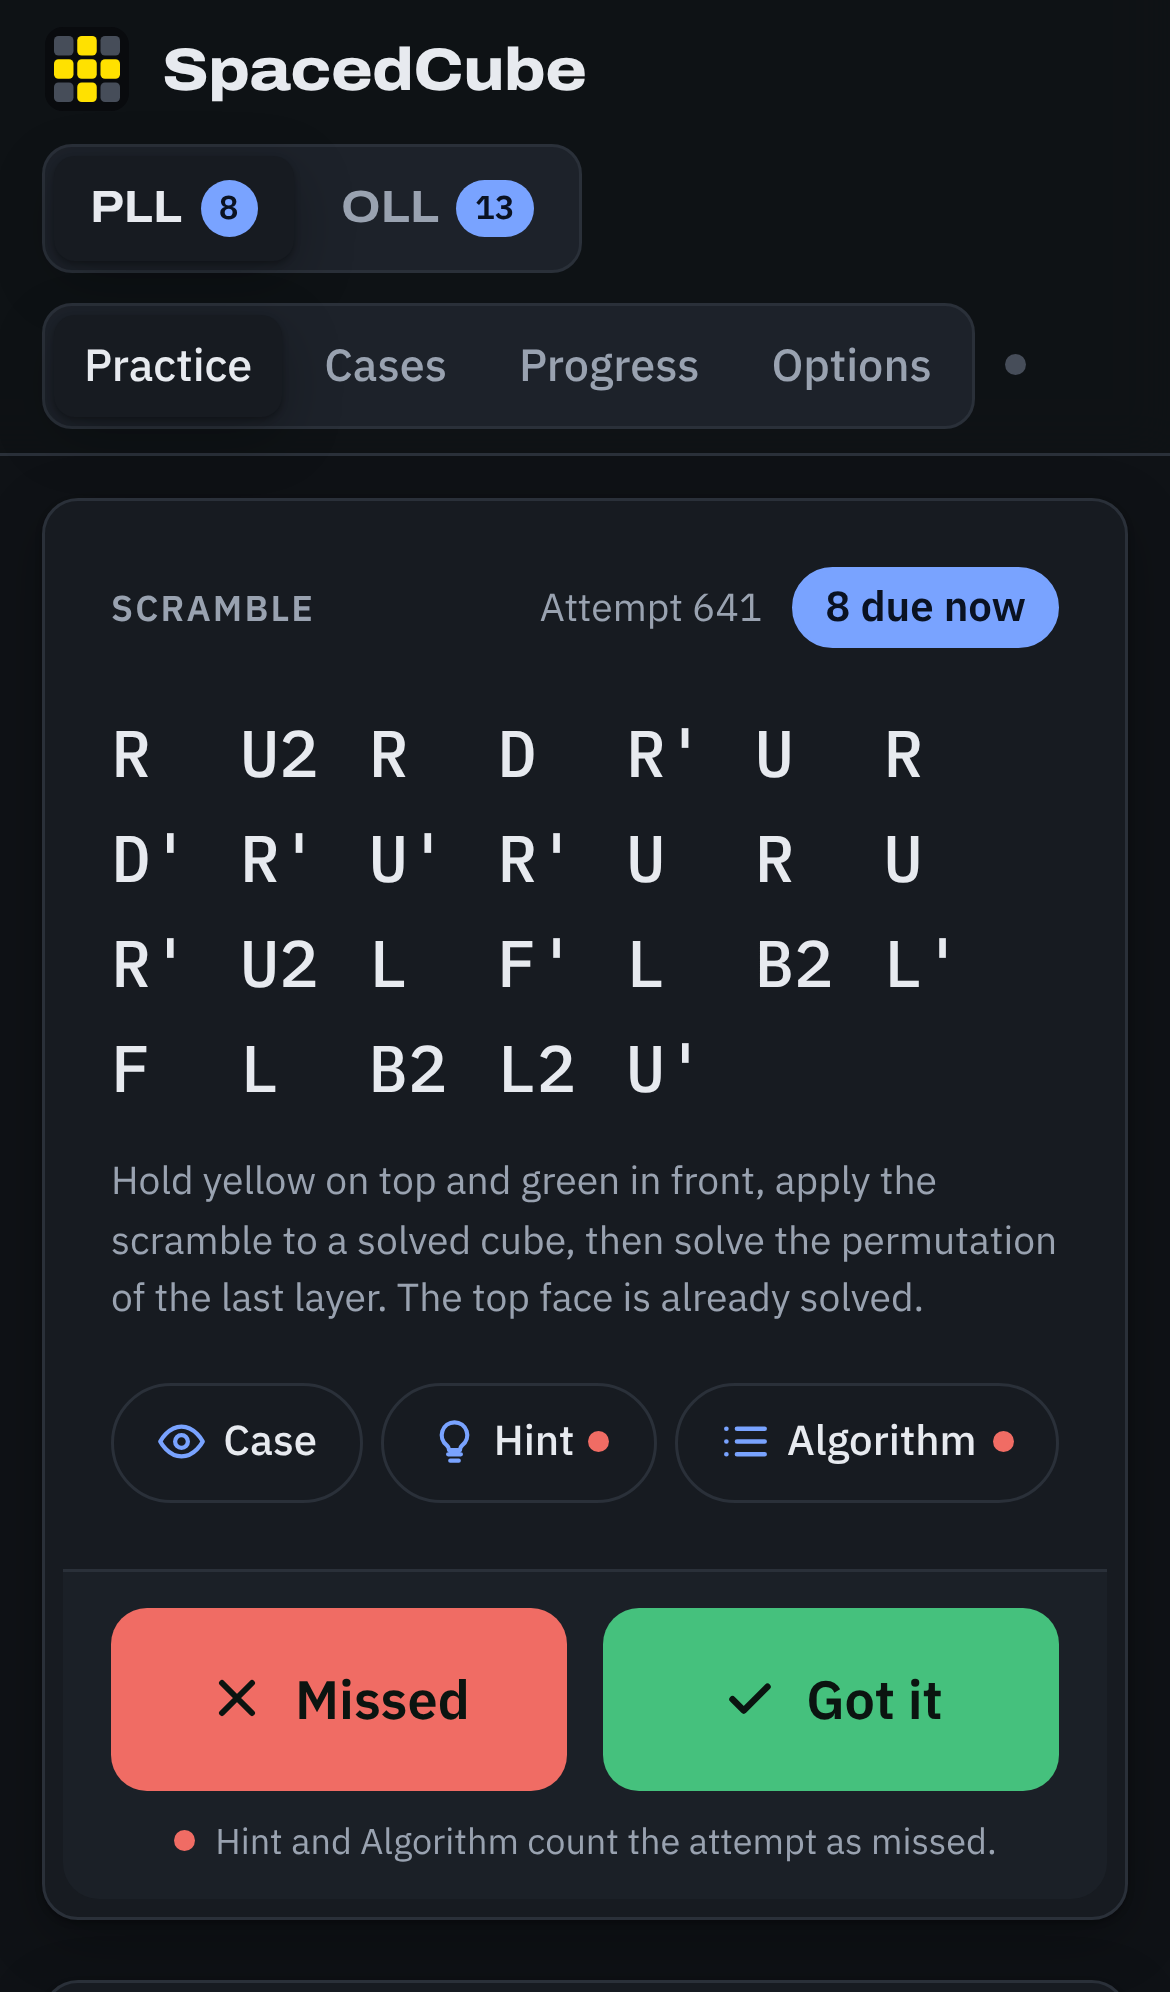
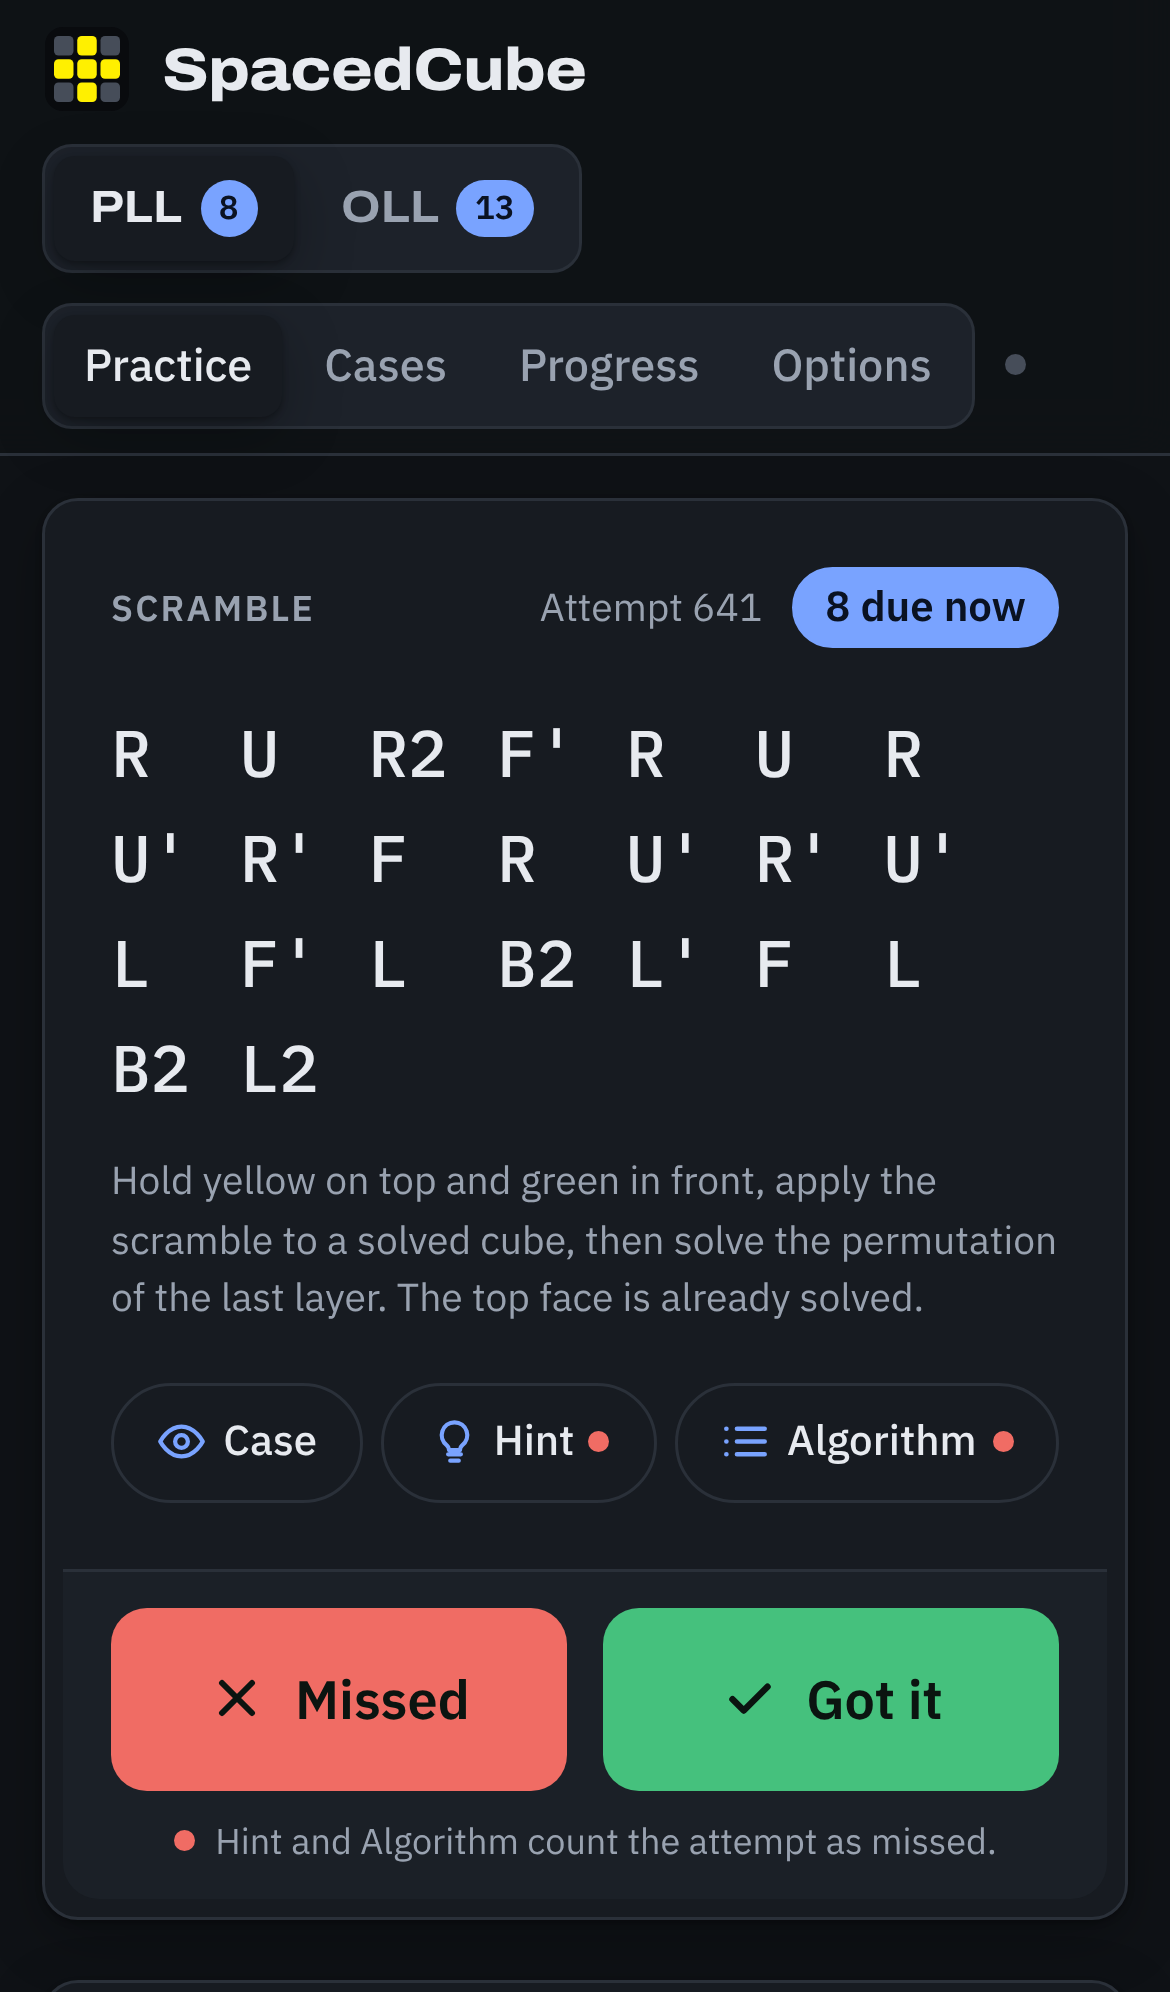
Lemon yellow #fff000: further from orange
Feedback: #ffe100 still read a little orange. Hue 52.9 -> 56.5 degrees;
yellow-orange difference 40 -> 45 (CIEDE2000), unchanged against white and
the grey OLL stickers.

Claude-Session: https://claude.ai/code/session_0158UrqXiT8KaEf9U6SxtX84

diff --git a/src/css/base.css b/src/css/base.css
@@ -15,7 +15,7 @@
   --good-soft: #e1f3e8;
   --bad: #c2352e;
   --bad-soft: #fbe6e4;
-  --sticker-on: #ffe100;
+  --sticker-on: #fff000;
   --sticker-off: #c3c8d0;
   --cube-body: #1b1f27;
   --m0: #d9dde4;
@@ -35,7 +35,7 @@
     --bg: #0f1216; --surface: #171b21; --surface-2: #1d222a; --ink: #e7eaef; --muted: #99a2b0; --line: #2a3039;
     --accent: #79a3ff; --accent-ink: #0a1222; --on-strong: #0b1410; --accent-soft: #1d2a44;
     --good: #45c17d; --good-soft: #15301f; --bad: #f06c64; --bad-soft: #3a1b19;
-    --sticker-on: #ffe100; --sticker-off: #464d59; --cube-body: #090b0e;
+    --sticker-on: #fff000; --sticker-off: #464d59; --cube-body: #090b0e;
     --m0: #2b313b; --m1: #24463a; --m2: #2e7050; --m3: #3fa56c; --m4: #78d9a1;
     --shadow: 0 1px 2px rgba(0,0,0,.3), 0 6px 20px rgba(0,0,0,.25);
     color-scheme: dark;
@@ -45,7 +45,7 @@
   --bg: #0f1216; --surface: #171b21; --surface-2: #1d222a; --ink: #e7eaef; --muted: #99a2b0; --line: #2a3039;
   --accent: #79a3ff; --accent-ink: #0a1222; --on-strong: #0b1410; --accent-soft: #1d2a44;
   --good: #45c17d; --good-soft: #15301f; --bad: #f06c64; --bad-soft: #3a1b19;
-  --sticker-on: #ffe100; --sticker-off: #464d59; --cube-body: #090b0e;
+  --sticker-on: #fff000; --sticker-off: #464d59; --cube-body: #090b0e;
   --m0: #2b313b; --m1: #24463a; --m2: #2e7050; --m3: #3fa56c; --m4: #78d9a1;
   --shadow: 0 1px 2px rgba(0,0,0,.3), 0 6px 20px rgba(0,0,0,.25);
   color-scheme: dark;

diff --git a/src/js/app/colors.js b/src/js/app/colors.js
@@ -3,7 +3,7 @@
 // a lemon yellow, a pure orange and a deep red, close to the colours real cubes use.
 // The yellow also lives in CSS (--sticker-on, base.css) for the OLL diagrams and the logo: keep both equal.
 export const FACE_HEX = {
-  U: '#ffe100', // yellow (top)
+  U: '#fff000', // yellow (top): lemon, well away from orange
   D: '#f5f5f5', // white
   F: '#2f9e4f', // green (front)
   B: '#2b67d1', // blue
